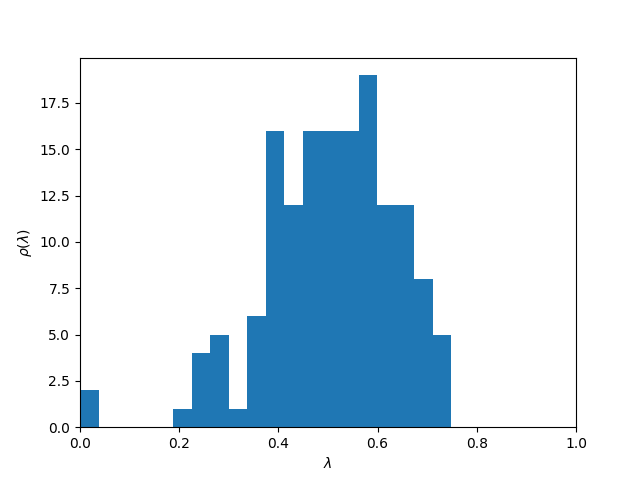
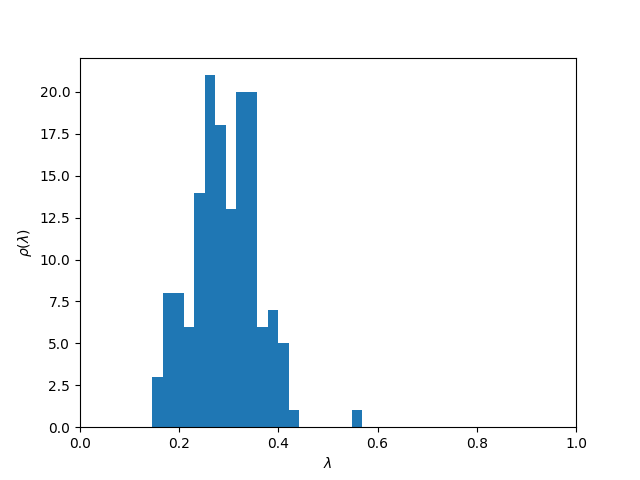
Improved pattern generation's speed and plots from lambda analysis'

diff --git a/test_patterns.py b/test_patterns.py
@@ -1,6 +1,7 @@
 import numpy.random as rd
 import numpy as np
 from parameters import get_parameters
+from time import time
 
 dt, tSim, N, S, p, num_fact, p_fact, dzeta, a_pf, eps, cm, a, U, T, w, \
     tau_1, tau_2, tau_3_A, tau_3_B, g_A, beta, g, t_0, tau, cue_ind, \
@@ -26,6 +27,7 @@ Index (i*S+k, mu) is True if unit i of pattern mu is in state k
 # Defines parents
 parents = rd.randint(0, S, ((N, num_fact)))
 ind_states = np.linspace(0, S-1, S, dtype=int)
+ind_units = np.linspace(0, N-1, N, dtype=int)
 parents_states = parents[:, :, None] == ind_states[None, None, :]
 
 ind_children = np.zeros((num_fact, p_fact), dtype='int')
@@ -34,13 +36,11 @@ s_max = np.zeros(N, dtype='int')           # Maximal field value
 ksi_mu_i = S*np.ones((p, N), dtype='int')  # Initialized in inactive state
 
 # Attribute p_fact children to each parent
-print('Attribute parents')
+t0 = time()
 deck = list(range(0, p))
-mat_par_child = np.zeros((p, num_fact), dtype=bool)
 for n in range(num_fact):
     rd.shuffle(deck)
     ind_children[n, :] = deck[:p_fact]
-    mat_par_child[ind_children[:, n], n] = True
     # m = 0
     # while m < p_fact:
     #     child_candidate = rd.randint(0, p)
@@ -51,9 +51,10 @@ for n in range(num_fact):
     #     if not already_picked:
     #         ind_children[n, m] = child_candidate
     #         m += 1
+t1 = time()
 
+print('Attribute parents : ' + str(t1-t0))
 # Compute fields
-print('Compute fields')
 for mu in range(p):
     child_fields = np.zeros((N, S))
 
@@ -61,46 +62,51 @@ for mu in range(p):
         expon = -dzeta*n
         for m in range(p_fact):
             if ind_children[n, m] == mu:
-                for i in range(N):
-                    y = rd.rand()/a_pf
-                    if y <= 1:
-                        child_fields[i, parents[i, n]] += y*np.exp(expon)
+                inputs = rd.binomial(1, a_pf, N) * rd.rand(N)
+                child_fields[ind_units, parents[ind_units, n]] \
+                    = inputs*np.exp(expon)
+
+                # for i in range(N):
+                #     y = rd.rand()/a_pf
+                #     if y <= 1:
+                #         child_fields[i, parents[i, n]] += y*np.exp(expon)
 
     # Adds a small boost for sparse intput (small a_pf)
-    for i in range(N):
-        randState = rd.randint(0, S)
-        child_fields[i, randState] += eps*rd.rand()
+    rand_states = rd.randint(0, S, N)
+    child_fields[ind_units, rand_states[ind_units]]  \
+        = eps*rd.rand(N)
+    # for i in range(N):
+    #     randState = rd.randint(0, S)
+    #     child_fields[i, randState] += eps*rd.rand()
 
     # Find state with maximal field
-    for i in range(N):
-        s_max[i] = np.argmax(child_fields[i, :])
-        h_max[i] = child_fields[i, s_max[i]]
+    s_max = np.argmax(child_fields, axis=1)
+    h_max = child_fields[ind_units, s_max[ind_units]]
+    # for i in range(N):
+    #     s_max[i] = np.argmax(child_fields[i, :])
+    #     h_max[i] = child_fields[i, s_max[i]]
 
     # Only keep the N*a units with the stronger fields
     # Sorte is in increasing order
     indSorted = np.argsort(h_max)[int(N*(1-a)):]
     ksi_mu_i[mu, indSorted] = s_max[indSorted]
-
-ind_units = np.linspace(0, N-1, N, dtype=int)
-ind_parents = np.linspace(0, num_fact-1, num_fact, dtype=int)
-children_fields = np.zeros((N, S, p))
-
-expon_vect = np.exp(-dzeta*np.linspace(0, num_fact-1, num_fact, dtype=int))
-inputs = \
-         rd.binomial(1, a_pf, size=(N, p, num_fact)) \
-         * rd.rand(N, p, num_fact) \
-         * expon_vect[None, None, :]
-
-inputs = inputs*mat_par_child[None, :, :]
-
+t2 = time()
+print('Compute fields : '+str(t2-t1))
 
 # One needs ksi_i_mu
 ksi_i_mu = ksi_mu_i.transpose()
 
-print('Deltas')
+
 # Compute patterns in a different form
-delta__ksi_i_mu__k = np.zeros((N*S, p))
-for i in range(N):
-    for mu in range(p):
-        for k in range(S):
-            delta__ksi_i_mu__k[i*S+k, mu] = delta(ksi_i_mu[i, mu], k)
+delta__ksi_i_mu__k = np.kron(ksi_i_mu, np.ones((S, 1)))
+k_mat = np.kron(np.ones((N, p)), np.linspace(0, S-1, S))
+delta__ksi_i_mu__k = delta__ksi_i_mu__k == k_mat
+
+# delta__ksi_i_mu__k = np.zeros((N*S, p))
+# for i in range(N):
+#     for mu in range(p):
+#         for k in range(S):
+#             delta__ksi_i_mu__k[i*S+k, mu] = delta(ksi_i_mu[i, mu], k)
+
+t3 = time()
+print('Deltas : ' + str(t3-t2))

diff --git a/patterns.py b/patterns.py
@@ -8,6 +8,7 @@
 import numpy.random as rd
 import numpy as np
 from parameters import get_parameters
+from time import time
 
 dt, tSim, N, S, p, num_fact, p_fact, dzeta, a_pf, eps, cm, a, U, T, w, \
     tau_1, tau_2, tau_3_A, tau_3_B, g_A, beta, g, t_0, tau, cue_ind, \
@@ -48,9 +49,9 @@ def get_correlated():
     delta__ksi_i_mu__k -- 2D array of bools
         Index (i*S+k, mu) is True if unit i of pattern mu is in state k
     """
-
     # Defines parents
     parents = rd.randint(0, S, ((N, num_fact)))
+    ind_units = np.linspace(0, N-1, N, dtype=int)
 
     ind_children = np.zeros((num_fact, p_fact), dtype='int')
     h_max = np.zeros(N)                        # State with maksi_mu_imul field
@@ -58,7 +59,7 @@ def get_correlated():
     ksi_mu_i = S*np.ones((p, N), dtype='int')  # Initialized in inactive state
 
     # Attribute p_fact children to each parent
-    print('Attribute parents')
+    t0 = time()
     deck = list(range(0, p))
     for n in range(num_fact):
         rd.shuffle(deck)
@@ -73,45 +74,64 @@ def get_correlated():
         #     if not already_picked:
         #         ind_children[n, m] = child_candidate
         #         m += 1
+    t1 = time()
+    print('Attribute parents : ' + str(t1-t0))
 
     # Compute fields
-    print('Compute fields')
     for mu in range(p):
-        child_fields = np.zeros((N, S+1))
+        child_fields = np.zeros((N, S))
 
         for n in range(num_fact):
             expon = -dzeta*n
             for m in range(p_fact):
                 if ind_children[n, m] == mu:
-                    for i in range(N):
-                        y = rd.rand()/a_pf
-                        if y <= 1:
-                            child_fields[i, parents[i, n]] += y*np.exp(expon)
+                    inputs = rd.binomial(1, a_pf, N) * rd.rand(N)
+                    child_fields[ind_units, parents[ind_units, n]] \
+                        = inputs*np.exp(expon)
+
+                    # for i in range(N):
+                    #     y = rd.rand()/a_pf
+                    #     if y <= 1:
+                    #         child_fields[i, parents[i, n]] += y*np.exp(expon)
 
         # Adds a small boost for sparse intput (small a_pf)
-        for i in range(N):
-            randState = rd.randint(0, S)
-            child_fields[i, randState] += eps*rd.rand()
+        rand_states = rd.randint(0, S, N)
+        child_fields[ind_units, rand_states[ind_units]]  \
+            = eps*rd.rand(N)
+        # for i in range(N):
+        #     randState = rd.randint(0, S)
+        #     child_fields[i, randState] += eps*rd.rand()
 
         # Find state with maximal field
-        for i in range(N):
-            s_max[i] = np.argmax(child_fields[i, :])
-            h_max[i] = child_fields[i, s_max[i]]
-
+        s_max = np.argmax(child_fields, axis=1)
+        h_max = child_fields[ind_units, s_max[ind_units]]
+        # for i in range(N):
+        #     s_max[i] = np.argmax(child_fields[i, :])
+        #     h_max[i] = child_fields[i, s_max[i]]
+                    
         # Only keep the N*a units with the stronger fields
         # Sorte is in increasing order
         indSorted = np.argsort(h_max)[int(N*(1-a)):]
         ksi_mu_i[mu, indSorted] = s_max[indSorted]
+    t2 = time()
+    print('Compute fields : '+str(t2-t1))
 
     # One needs ksi_i_mu
     ksi_i_mu = ksi_mu_i.transpose()
 
-    print('Deltas')
     # Compute patterns in a different form
-    delta__ksi_i_mu__k = np.zeros((N*S, p))
-    for i in range(N):
-        for mu in range(p):
-            for k in range(S):
-                delta__ksi_i_mu__k[i*S+k, mu] = delta(ksi_i_mu[i, mu], k)
+    delta__ksi_i_mu__k = np.kron(ksi_i_mu, np.ones((S, 1)))
+    k_mat = np.kron(np.ones((N, p)),
+                    np.reshape(np.linspace(0, S-1, S), (S, 1)))
+    print(k_mat.shape)
+    delta__ksi_i_mu__k = delta__ksi_i_mu__k == k_mat
+    # delta__ksi_i_mu__k = np.zeros((N*S, p))
+    # for i in range(N):
+    #     for mu in range(p):
+    #         for k in range(S):
+    #             delta__ksi_i_mu__k[i*S+k, mu] = delta(ksi_i_mu[i, mu], k)
+
+    t3 = time()
+    print('Deltas : ' + str(t3-t2))
 
     return ksi_i_mu, delta__ksi_i_mu__k

diff --git a/lambda_analysis_sparse_matrices.py b/lambda_analysis_sparse_matrices.py
@@ -134,7 +134,7 @@ plt.xlabel(r'$\lambda$')
 plt.ylabel(r'$\rho(\lambda)$')
 plt.savefig('histNit' + str(tSim))
 
-
+lamb = np.array(lamb)
 C1C2C0 = correlations.cross_correlations(ksi_i_mu)
 
 correlations.correlations_1D_hist(ksi_i_mu, C1C2C0)
@@ -152,10 +152,25 @@ YY = correlations.active_same_state(ksi_i_mu[:, retrieved_saved],
 ZZ = correlations.active_inactive(ksi_i_mu[:, retrieved_saved],
                                   ksi_i_mu[:, outsider_saved])
 
+s = 1
+low_cor = lamb < 0.2
+l_low_cor = r'$\lambda < 0.2$'
+mid_low_cor = np.logical_and(0.2 <= lamb, lamb < 0.6)
+l_mid_low_cor = r'$0.2 <= \lambda < 0.6$'
+mid_high_cor = np.logical_and(0.6 <= lamb, lamb < 0.8)
+l_mid_high_cor = r'$0.6 <= \lambda < 0.8$'
+high_cor = 0.8 <= lamb
+l_high_cor = r'$0.8 <= \lambda $'
+
 C1C2C0 = correlations.cross_correlations(ksi_i_mu)
 plt.figure('Correlations between transition patterns')
 ax1 = plt.subplot(121)
-plt.scatter(XX, YY, s=0.05)
+ax1.scatter(XX[low_cor], YY[low_cor], s=s, c='orange', label=l_low_cor)
+ax1.scatter(XX[mid_low_cor], YY[mid_low_cor], s=s, c='cyan', label=l_mid_low_cor)
+ax1.scatter(XX[mid_high_cor], YY[mid_high_cor], s=s, c='m', label=l_mid_high_cor)
+ax1.scatter(XX[high_cor], YY[high_cor], s=s, c='g', label=l_high_cor)
+ax1.legend()
+
 ax1.set_ylabel('C1')
 ax1.set_xlabel('C2')
 ax1.set_xlim(x0, x1)
@@ -171,14 +186,18 @@ plt.title('Correlations between transition patterns')
 
 plt.figure('Lambda, C')
 plt.subplot(131)
-plt.scatter(XX, lamb)
+plt.hist2d(XX, lamb)
 plt.xlabel('C1')
+plt.colorbar()
 plt.subplot(132)
-plt.scatter(YY, lamb)
+plt.hist2d(YY, lamb)
 plt.xlabel('C2')
+plt.ylabel(r'$\lambda')
+plt.colorbar()
 plt.subplot(133)
-plt.plot(ZZ, lamb)
+plt.hist2d(ZZ, lamb)
 plt.xlabel('Active Inactive')
+plt.colorbar()
 
 
 

diff --git a/parameters.py b/parameters.py
@@ -9,7 +9,7 @@ from and their behavior
 
 # Integration
 dt = 1
-tSim = 250
+tSim = 100000
 
 # Network
 # Potts units
